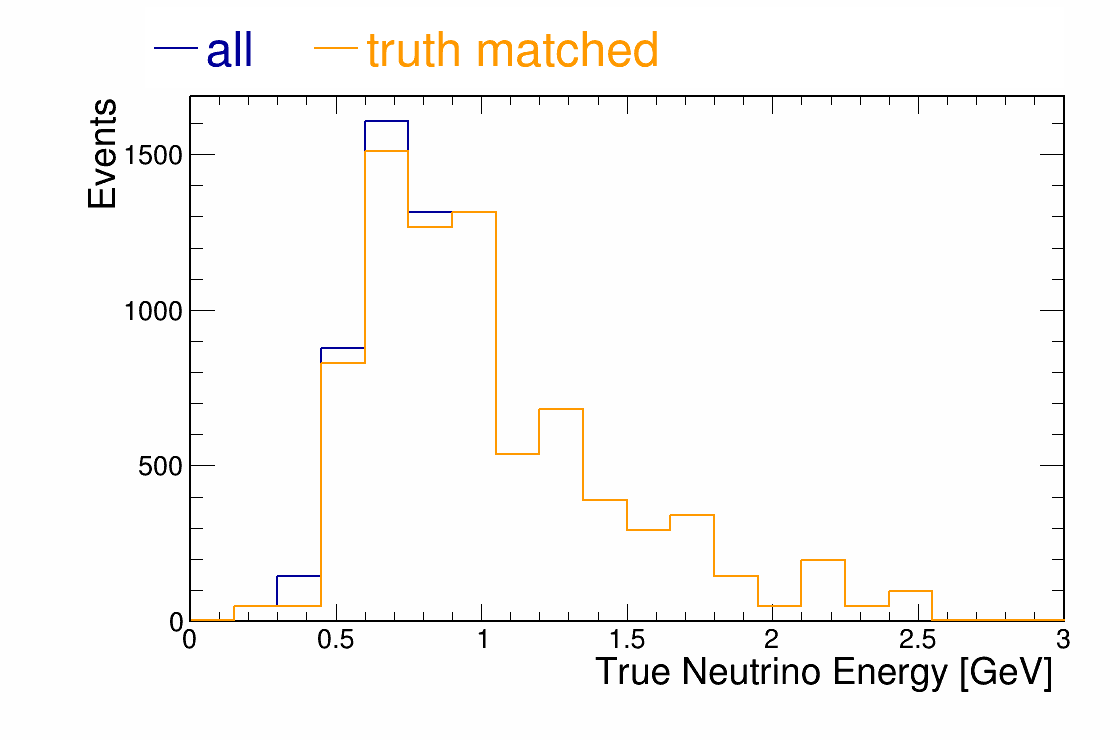
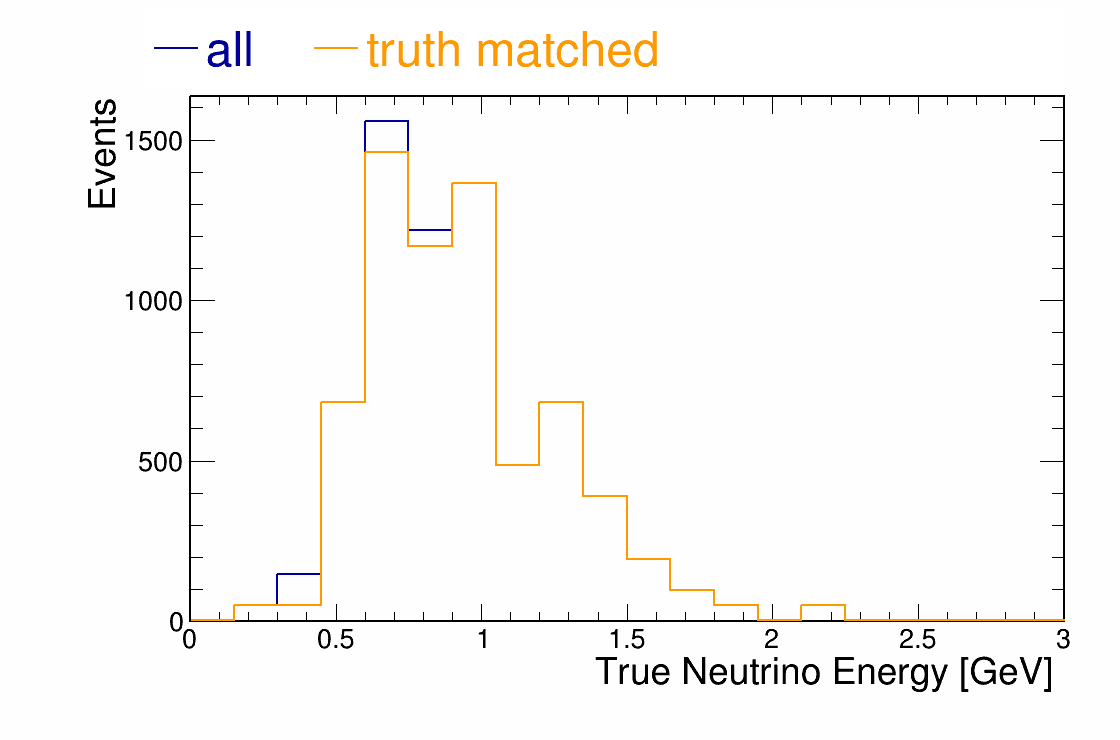
Improve signal definition

diff --git a/CAFAnaAnalysis/Scripts/Definitions.h b/CAFAnaAnalysis/Scripts/Definitions.h
@@ -6,6 +6,8 @@
 
 // std includes.
 #include <vector>
+#include <limits>
+#include <tuple>
 
 namespace ana
 {
@@ -17,12 +19,12 @@ namespace ana
     const float fFVZMax =  500.00-50.;
     const float fFVZMin =    0.00+10.;
 
-    const std::map<int, float> PDGToThreshold = {
-        {13, 0.175}, // Muon
-        {2212, 0.3}, // Proton
-        {211, 0.07}, // Pi plus
-        {-211, 0.07}, // Pi minus
-        {111, 0.0} // Pi zero
+    const std::map<int, std::tuple<float, float>> PDGToThreshold = {
+        {13, {0.1, 1.2}}, // Muon
+        {2212, {0.3, 1.}}, // Proton
+        {211, {0.07, std::numeric_limits<float>::max()}}, // Pi plus
+        {-211, {0.07, std::numeric_limits<float>::max()}}, // Pi minus
+        {111, {0.0, std::numeric_limits<float>::max()}} // Pi zero
     };
 
     ////////////// 
@@ -68,11 +70,11 @@ namespace ana
     }
 
     // Check multiplicity of particles in a given pdg
-    int iCountMultParticle(const caf::SRTrueInteractionProxy* nu, int pdg, float threshold) {
+    int iCountMultParticle(const caf::SRTrueInteractionProxy* nu, int pdg, float lb, float up) {
         int count = 0;
         for (auto const& prim : nu->prim) {
             float totp = std::sqrt(std::pow(prim.startp.x, 2) + std::pow(prim.startp.y, 2) + std::pow(prim.startp.z, 2));
-            if ((prim.pdg == pdg) && (totp > threshold)) {
+            if ((prim.pdg == pdg) && (totp > lb) && (totp < up)) {
                 count++;
             }
         }
@@ -104,11 +106,12 @@ namespace ana
         return (
             bIsInFV(&nu->position) && // check position is in fiducial volume
             nu->iscc && // check it is charged current interaction
-            nu->pdg == 14 && // check particle is muon
-            iCountMultParticle(nu, 2212, PDGToThreshold.at(2212)) == 2 && // check for two protons
-            iCountMultParticle(nu, 211, PDGToThreshold.at(211)) == 0 && // no positively charged pions
-            iCountMultParticle(nu, -211, PDGToThreshold.at(-211)) == 0 && // no negatively charged pions
-            iCountMultParticle(nu, 111, 0) == 0 // no neutral pions
+            nu->pdg == 14 && // check neutrino is muon neutrino
+            iCountMultParticle(nu, 13, std::get<0>(PDGToThreshold.at(13)), std::get<1>(PDGToThreshold.at(13))) == 1 && // check for one muon
+            iCountMultParticle(nu, 2212, std::get<0>(PDGToThreshold.at(2212)), std::get<1>(PDGToThreshold.at(2212))) == 2 && // check for two protons
+            iCountMultParticle(nu, 211, std::get<0>(PDGToThreshold.at(211)), std::get<1>(PDGToThreshold.at(211))) == 0 && // no positively charged pions
+            iCountMultParticle(nu, -211, std::get<0>(PDGToThreshold.at(-211)), std::get<1>(PDGToThreshold.at(-211))) == 0 && // no negatively charged pions
+            iCountMultParticle(nu, 111, std::get<0>(PDGToThreshold.at(111)), std::get<1>(PDGToThreshold.at(111))) == 0 // no neutral pions
         );
     });
 
